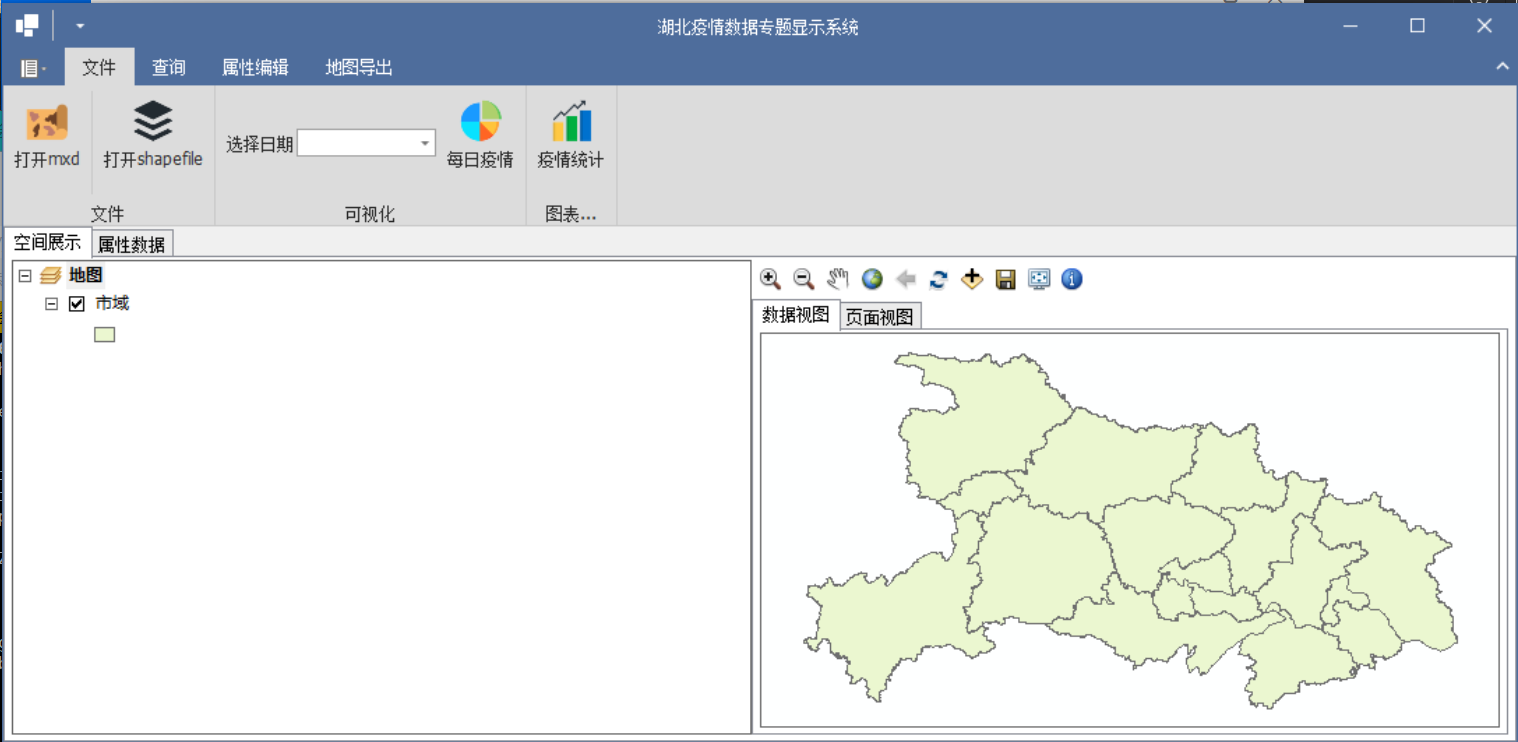
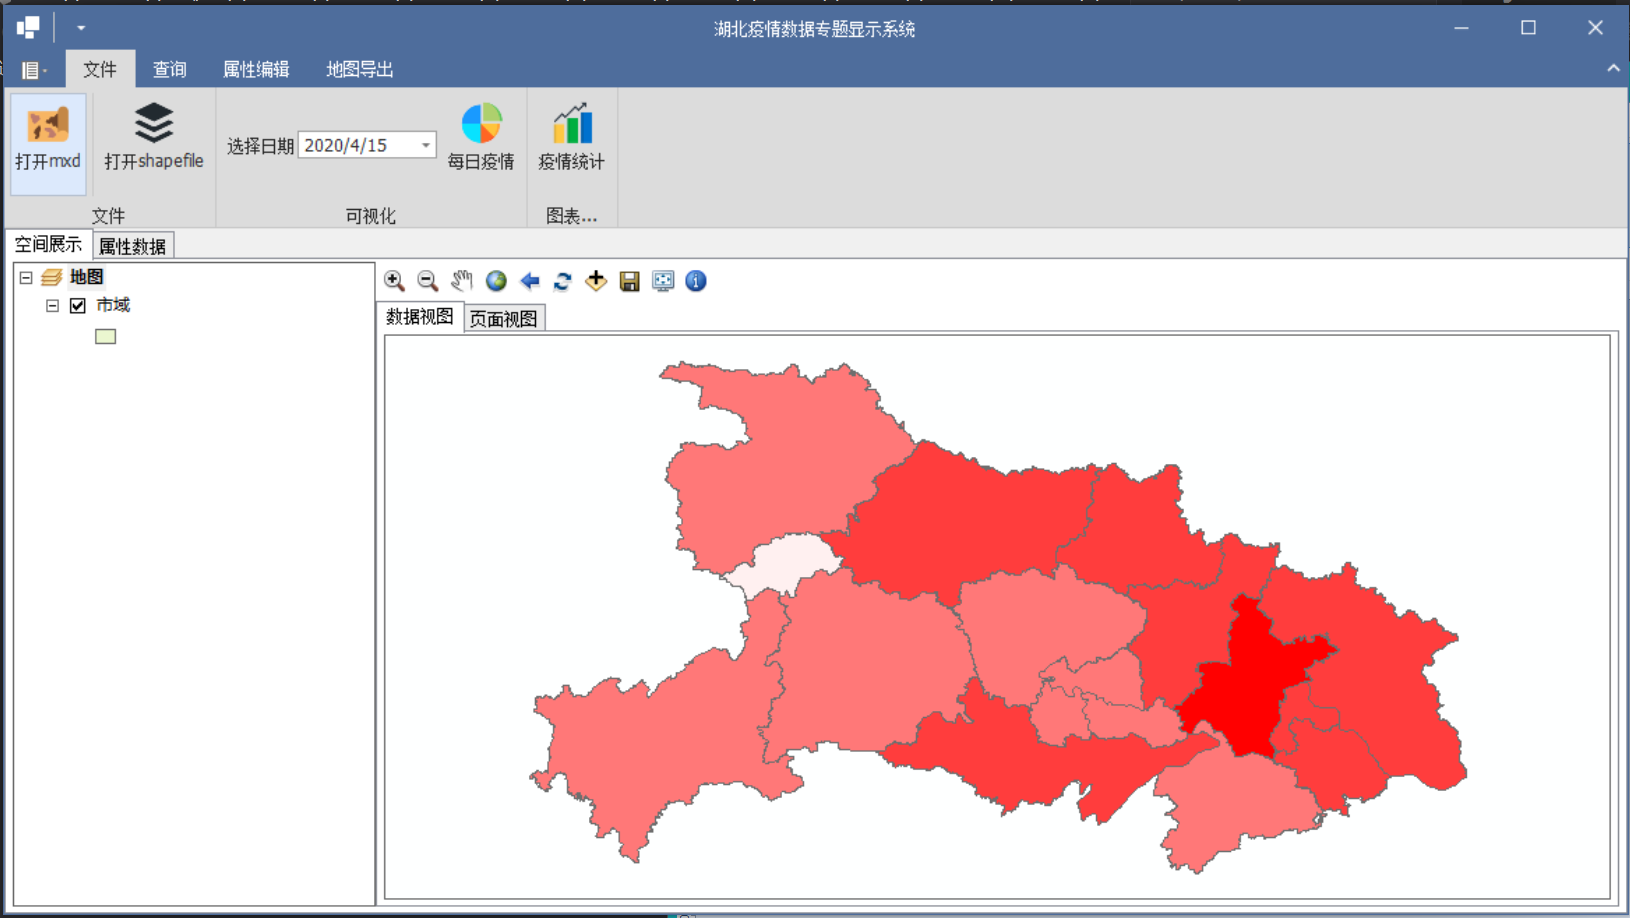
fix pannal

diff --git a/ArcgisEngine/ArcgisEngineApplication1/Form1.Designer.cs b/ArcgisEngine/ArcgisEngineApplication1/Form1.Designer.cs
@@ -128,6 +128,7 @@
             this.ribbonControl1.ExpandCollapseItem.Id = 0;
             this.ribbonControl1.Items.AddRange(new DevExpress.XtraBars.BarItem[] {
             this.ribbonControl1.ExpandCollapseItem,
+            this.ribbonControl1.SearchEditItem,
             this.openMxd,
             this.shapeQuery,
             this.clearShape,
@@ -155,8 +156,7 @@
             this.barEditItem3,
             this.start_time,
             this.end_time,
-            this.delete_ele,
-            this.ribbonControl1.SearchEditItem});
+            this.delete_ele});
             this.ribbonControl1.Location = new System.Drawing.Point(0, 0);
             this.ribbonControl1.Margin = new System.Windows.Forms.Padding(4, 5, 4, 5);
             this.ribbonControl1.MaxItemId = 34;
@@ -573,18 +573,18 @@
             this.axTOCControl1.Margin = new System.Windows.Forms.Padding(2);
             this.axTOCControl1.Name = "axTOCControl1";
             this.axTOCControl1.OcxState = ((System.Windows.Forms.AxHost.State)(resources.GetObject("axTOCControl1.OcxState")));
-            this.axTOCControl1.Size = new System.Drawing.Size(530, 784);
+            this.axTOCControl1.Size = new System.Drawing.Size(260, 784);
             this.axTOCControl1.TabIndex = 1;
             this.axTOCControl1.OnMouseDown += new ESRI.ArcGIS.Controls.ITOCControlEvents_Ax_OnMouseDownEventHandler(this.axTOCControl1_OnMouseDown);
             // 
             // axToolbarControl1
             // 
             this.axToolbarControl1.Dock = System.Windows.Forms.DockStyle.Top;
-            this.axToolbarControl1.Location = new System.Drawing.Point(532, 2);
+            this.axToolbarControl1.Location = new System.Drawing.Point(262, 2);
             this.axToolbarControl1.Margin = new System.Windows.Forms.Padding(2);
             this.axToolbarControl1.Name = "axToolbarControl1";
             this.axToolbarControl1.OcxState = ((System.Windows.Forms.AxHost.State)(resources.GetObject("axToolbarControl1.OcxState")));
-            this.axToolbarControl1.Size = new System.Drawing.Size(1146, 28);
+            this.axToolbarControl1.Size = new System.Drawing.Size(1416, 28);
             this.axToolbarControl1.TabIndex = 2;
             // 
             // axMapControl1
@@ -594,7 +594,7 @@
             this.axMapControl1.Margin = new System.Windows.Forms.Padding(2);
             this.axMapControl1.Name = "axMapControl1";
             this.axMapControl1.OcxState = ((System.Windows.Forms.AxHost.State)(resources.GetObject("axMapControl1.OcxState")));
-            this.axMapControl1.Size = new System.Drawing.Size(1134, 718);
+            this.axMapControl1.Size = new System.Drawing.Size(1404, 718);
             this.axMapControl1.TabIndex = 3;
             this.axMapControl1.OnMouseDown += new ESRI.ArcGIS.Controls.IMapControlEvents2_Ax_OnMouseDownEventHandler(this.axMapControl1_OnMouseDown);
             this.axMapControl1.OnAfterScreenDraw += new ESRI.ArcGIS.Controls.IMapControlEvents2_Ax_OnAfterScreenDrawEventHandler(this.axMapControl1_OnAfterScreenDraw);
@@ -636,11 +636,11 @@
             this.tabControl1.Controls.Add(this.tabPage1);
             this.tabControl1.Controls.Add(this.tabPage2);
             this.tabControl1.Dock = System.Windows.Forms.DockStyle.Fill;
-            this.tabControl1.Location = new System.Drawing.Point(532, 30);
+            this.tabControl1.Location = new System.Drawing.Point(262, 30);
             this.tabControl1.Margin = new System.Windows.Forms.Padding(2);
             this.tabControl1.Name = "tabControl1";
             this.tabControl1.SelectedIndex = 0;
-            this.tabControl1.Size = new System.Drawing.Size(1146, 756);
+            this.tabControl1.Size = new System.Drawing.Size(1416, 756);
             this.tabControl1.TabIndex = 6;
             // 
             // tabPage1
@@ -651,7 +651,7 @@
             this.tabPage1.Margin = new System.Windows.Forms.Padding(2);
             this.tabPage1.Name = "tabPage1";
             this.tabPage1.Padding = new System.Windows.Forms.Padding(2);
-            this.tabPage1.Size = new System.Drawing.Size(1138, 722);
+            this.tabPage1.Size = new System.Drawing.Size(1408, 722);
             this.tabPage1.TabIndex = 0;
             this.tabPage1.Text = "数据视图";
             this.tabPage1.UseVisualStyleBackColor = true;
@@ -673,7 +673,7 @@
             this.tabPage2.Margin = new System.Windows.Forms.Padding(2);
             this.tabPage2.Name = "tabPage2";
             this.tabPage2.Padding = new System.Windows.Forms.Padding(2);
-            this.tabPage2.Size = new System.Drawing.Size(1070, 724);
+            this.tabPage2.Size = new System.Drawing.Size(1138, 722);
             this.tabPage2.TabIndex = 1;
             this.tabPage2.Text = "页面视图";
             this.tabPage2.UseVisualStyleBackColor = true;
@@ -693,7 +693,7 @@
             this.axPageLayoutControl1.Margin = new System.Windows.Forms.Padding(2);
             this.axPageLayoutControl1.Name = "axPageLayoutControl1";
             this.axPageLayoutControl1.OcxState = ((System.Windows.Forms.AxHost.State)(resources.GetObject("axPageLayoutControl1.OcxState")));
-            this.axPageLayoutControl1.Size = new System.Drawing.Size(1066, 720);
+            this.axPageLayoutControl1.Size = new System.Drawing.Size(1134, 718);
             this.axPageLayoutControl1.TabIndex = 0;
             this.axPageLayoutControl1.OnMouseDown += new ESRI.ArcGIS.Controls.IPageLayoutControlEvents_Ax_OnMouseDownEventHandler(this.axPageLayoutControl1_OnMouseDown);
             this.axPageLayoutControl1.OnMouseUp += new ESRI.ArcGIS.Controls.IPageLayoutControlEvents_Ax_OnMouseUpEventHandler(this.axPageLayoutControl1_OnMouseUp);
